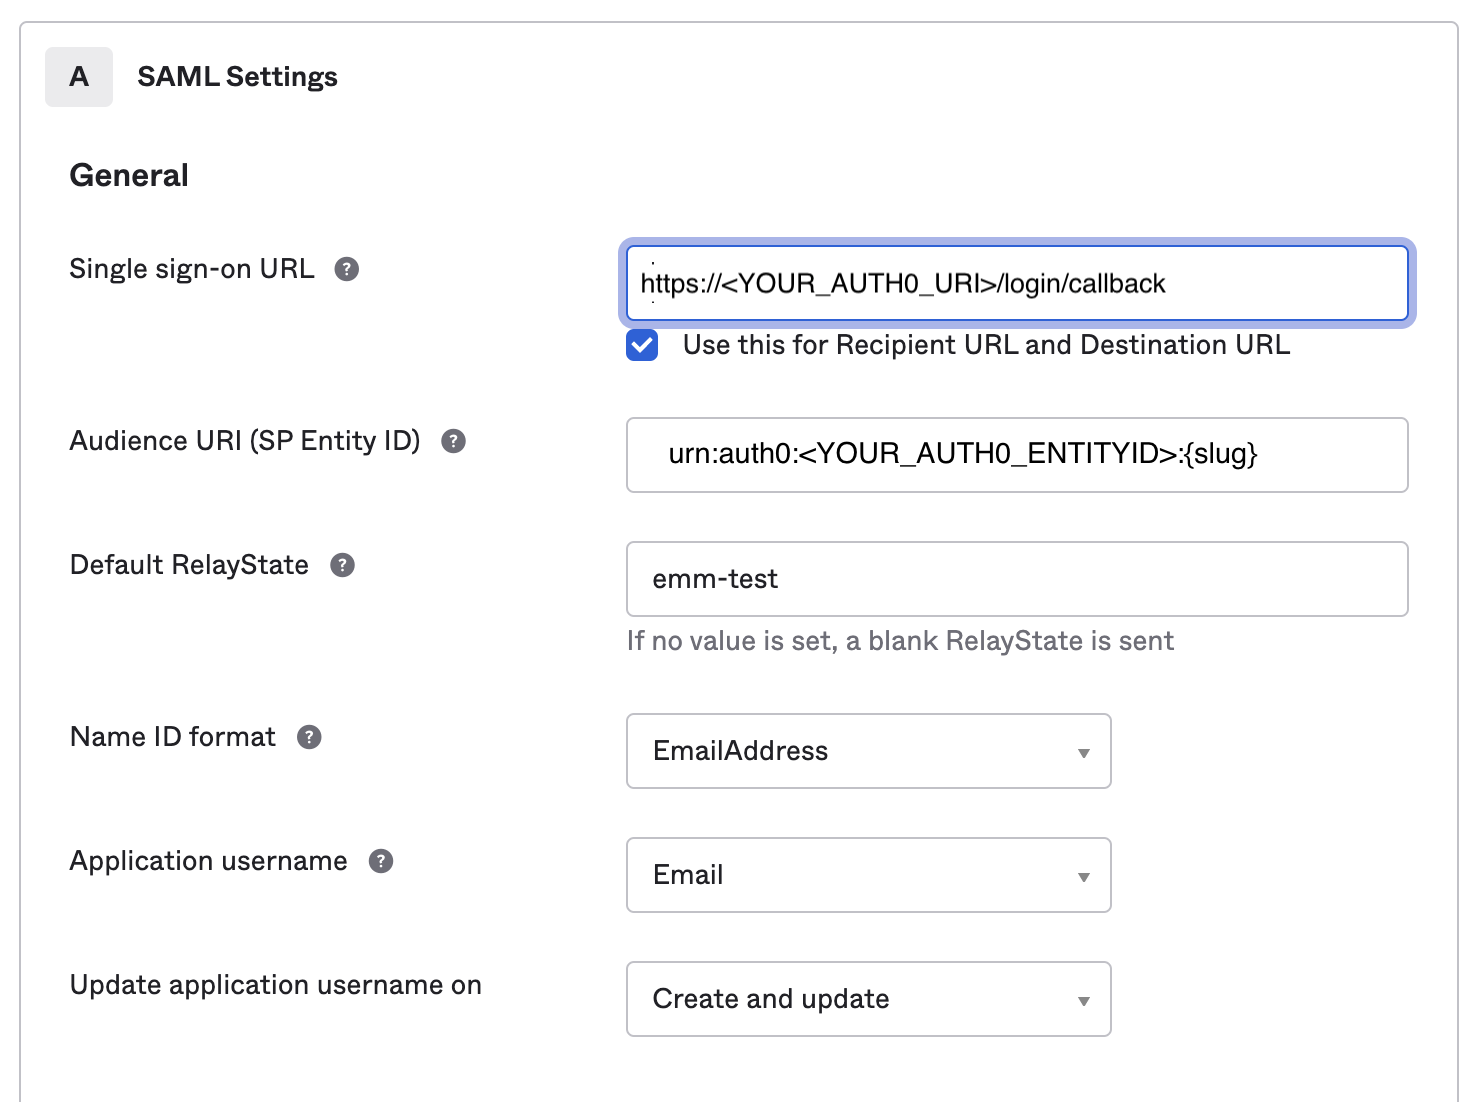
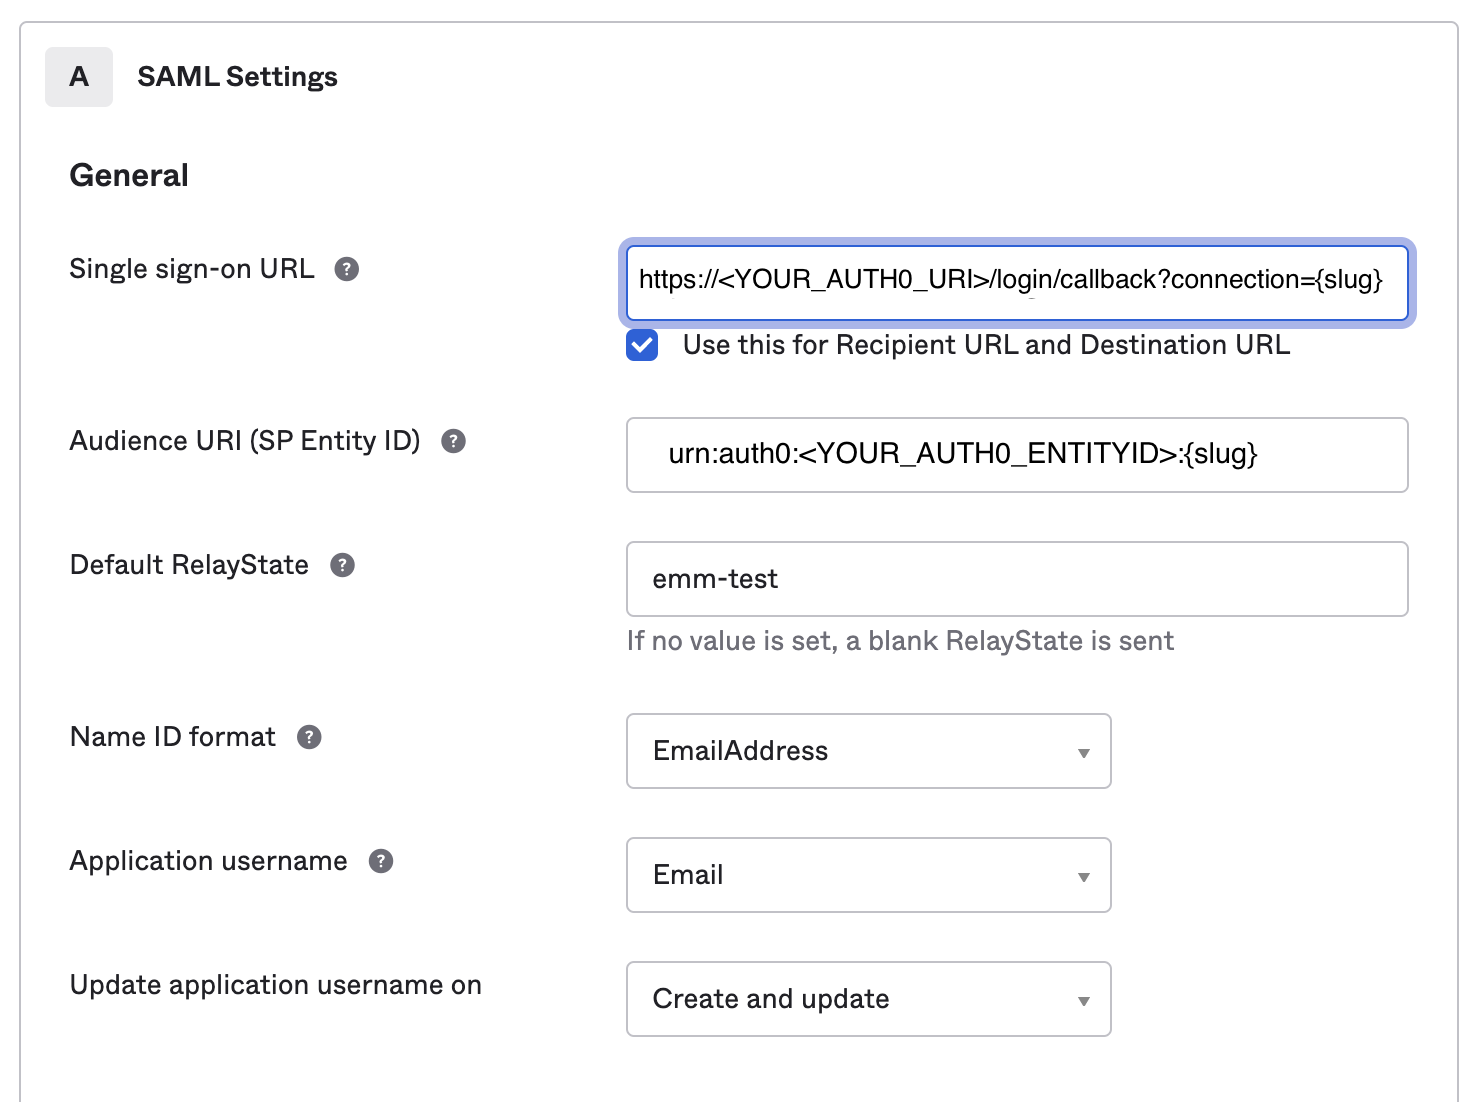
Adding entra ID sso saml migration

Changed region(s): [[0.4309, 0.2468, 0.9542, 0.2777]]

diff --git a/website/docs/docs/cloud/manage-access/auth0-migration.md b/website/docs/docs/cloud/manage-access/auth0-migration.md
@@ -30,11 +30,13 @@ After changing the slug, admins must share the new login URL with their dbt Clou
 
 :::
 
-## SAML 2.0 and Okta
+## SAML 2.0
 
 SAML 2.0 users must update a few fields in the SSO app configuration to match the new Auth0 URL and URI.  You can approach this by editing the existing SSO app settings or creating a new one to accommodate the Auth0 settings. One approach isn't inherently better, so you can choose whichever works best for your organization.
 
-The fields that will be updated are:
+### SAML 2.0 and Okta
+
+The Okta fields that will be updated are:
 - Single sign-on URL &mdash; `https://<YOUR_AUTH0_URI>/login/callback?connection={slug}`
 - Audience URI (SP Entity ID) &mdash; `urn:auth0:<YOUR_AUTH0_ENTITYID>:{slug}`
 
@@ -56,39 +58,37 @@ Here is an example of an updated SAML 2.0 setup in Okta.
 
 4. Save the settings and test the new configuration using the SSO login URL provided on the settings page. 
 
-## Google Workspace
+### SAML 2.0 and Entra ID
 
-Google Workspace admins updating their SSO APIs with the Auth0 URL won't have to do much if it is an existing setup. This can be done as a new project or by editing an existing SSO setup. No additional scopes are needed since this is migrating from an existing setup. All scopes were defined during the initial configuration. 
+The Entra ID fields that will be updated are:
+- Single sign-on URL &mdash; `https://<YOUR_AUTH0_URI>/login/callback?connection={slug}`
+- Audience URI (SP Entity ID) &mdash; `urn:auth0:<YOUR_AUTH0_ENTITYID>:{slug}`
 
-Below are steps to update. You must complete all of them to ensure uninterrupted access to dbt Cloud and you should coordinate with your identity provider admin when making these changes.
+The new values for these fields can be found in dbt Cloud by navigating to **Account settting** --> **Single sign-on**.
 
-1. Open the [Google Cloud console](https://console.cloud.google.com/) and select the project with your dbt Cloud single sign-on settings. From the project page **Quick Access**, select **APIs and Services**
+1. Replace `{slug}` with your organization’s login slug. It must be unique across all dbt Cloud instances and is usually something like your company name separated by dashes (for example, `dbt-labs`).
 
-<Lightbox src="/img/docs/dbt-cloud/access-control/google-cloud-sso.png" title="Google Cloud Console"/>
+2. Locate your dbt Cloud SAML2.0 app in the **Enterprise applications** section of Azure. Click **Single sign-on** on the left side menu.
 
-2. Click **Credentials** from the left side pane and click the appropriate name from **OAuth 2.0 Client IDs**
+3. Edit the **Basic SAML configuration** tile and enter the values from your account:
+    - Entra ID **Identifier (Entity ID)** = dbt Cloud **Audience URI (SP Entity ID)**
+    - Entra ID **Reply URL (Assertion Consumer Service URL)** = dbt Cloud **Single sign-on URL**
 
-<Lightbox src="/img/docs/dbt-cloud/access-control/sso-project.png" title="Select the OAuth 2.0 Client ID"/>
+    <Lightbox src="/img/docs/dbt-cloud/access-control/edit-entra-saml.png" width="90%" title="Editing the SAML configuration window in Entra ID"/>
 
-3. In the **Client ID for Web application** window, find the **Authorized Redirect URIs** field and click **Add URI** and enter `https://<YOUR_AUTH0_URI>/login/callback`.
+4. Save the fields and the completed configuration will look something like this: 
 
-Click **Save** once you are done. 
+    <Lightbox src="/img/docs/dbt-cloud/access-control/entra-id-saml.png" width="90%" title="Completed configuration of the SAML fields in Entra ID"/>
 
-<Lightbox src="/img/docs/dbt-cloud/access-control/google-uri.png" title="Add Redirect URI"/>
+3. Toggle the `Enable new SSO authentication` option to ensure the traffic is routed correctly. _The new SSO migration action is final and cannot be undone_
 
-4. _You will need a person with Google Workspace admin privileges to complete these steps in dbt Cloud_. In dbt Cloud, navigate to the **Account Settings**, click on **Single Sign-on**, and then click **Edit** on the right side of the SSO pane. Toggle the **Enable New SSO Authentication** option and select **Save**. This will trigger an authorization window from Google that will require admin credentials. _The migration action is final and cannot be undone_. Once the authentication has gone through, test the new configuration using the SSO login URL provided on the settings page.
+<Lightbox src="/img/docs/dbt-cloud/access-control/saml-enable-entra.png" title="Enable new SSO for SAML/Okta"/>
 
-:::warning Domain authorization
-
-You must complete the domain authorization before you toggle `Enable New SSO Authentication`, or the migration will not complete successfully.
-
-:::
-
-<Lightbox src="/img/docs/dbt-cloud/access-control/google-enable.png" title="Enable new SSO for Google Workspace"/>
+4. Save the settings and test the new configuration using the SSO login URL provided on the settings page.
 
 ## Microsoft Entra ID
 
-Microsoft Entra ID admins will need to make a slight adjustment to the existing authentication app in the Azure portal. This migration does not require that the entire app be deleted or recreated; you can edit the existing app. Start by opening the Azure portal and navigating to the Microsoft Entra ID overview.
+Microsoft Entra ID admins using OpenID Connect (ODIC) will need to make a slight adjustment to the existing authentication app in the Azure portal. This migration does not require that the entire app be deleted or recreated; you can edit the existing app. Start by opening the Azure portal and navigating to the Microsoft Entra ID overview.
 
 Below are steps to update. You must complete all of them to ensure uninterrupted access to dbt Cloud and you should coordinate with your identity provider admin when making these changes.
 
@@ -113,3 +113,32 @@ You must complete the domain authorization before you toggle `Enable New SSO Aut
 :::
 
 <Lightbox src="/img/docs/dbt-cloud/access-control/azure-enable.png" title="Enable new SSO"/>
+
+## Google Workspace
+
+Google Workspace admins updating their SSO APIs with the Auth0 URL won't have to do much if it is an existing setup. This can be done as a new project or by editing an existing SSO setup. No additional scopes are needed since this is migrating from an existing setup. All scopes were defined during the initial configuration. 
+
+Below are steps to update. You must complete all of them to ensure uninterrupted access to dbt Cloud and you should coordinate with your identity provider admin when making these changes.
+
+1. Open the [Google Cloud console](https://console.cloud.google.com/) and select the project with your dbt Cloud single sign-on settings. From the project page **Quick Access**, select **APIs and Services**
+
+<Lightbox src="/img/docs/dbt-cloud/access-control/google-cloud-sso.png" title="Google Cloud Console"/>
+
+2. Click **Credentials** from the left side pane and click the appropriate name from **OAuth 2.0 Client IDs**
+
+<Lightbox src="/img/docs/dbt-cloud/access-control/sso-project.png" title="Select the OAuth 2.0 Client ID"/>
+
+3. In the **Client ID for Web application** window, find the **Authorized Redirect URIs** field and click **Add URI** and enter `https://<YOUR_AUTH0_URI>/login/callback`.
+
+Click **Save** once you are done. 
+
+4. _You will need a person with Google Workspace admin privileges to complete these steps in dbt Cloud_. In dbt Cloud, navigate to the **Account Settings**, click on **Single Sign-on**, and then click **Edit** on the right side of the SSO pane. Toggle the **Enable New SSO Authentication** option and select **Save**. This will trigger an authorization window from Google that will require admin credentials. _The migration action is final and cannot be undone_. Once the authentication has gone through, test the new configuration using the SSO login URL provided on the settings page.
+
+:::warning Domain authorization
+
+You must complete the domain authorization before you toggle `Enable New SSO Authentication`, or the migration will not complete successfully.
+
+:::
+
+<Lightbox src="/img/docs/dbt-cloud/access-control/google-enable.png" title="Enable new SSO for Google Workspace"/>
+

diff --git a/website/docs/docs/cloud/manage-access/set-up-sso-saml-2.0.md b/website/docs/docs/cloud/manage-access/set-up-sso-saml-2.0.md
@@ -355,7 +355,13 @@ From the Set up Single Sign-On with SAML page:
 
 ### Finish setup
 
-9. After creating the Azure application, follow the instructions in the [dbt Cloud Setup](#dbt-cloud-setup) section to complete the integration.
+9. After creating the Azure application, follow the instructions in the [dbt Cloud Setup](#dbt-cloud-setup) section to complete the integration. The names for fields in dbt Cloud vary from those in the Entra ID app. They're mapped as follows:
+
+| dbt Cloud field | Corresponding Entra ID field |
+| ----- | ----- |
+| Identity Provider SSO URL | Login URL |
+| Identity Provider Issuer | Microsoft Entra Identifier |
+
 
 ## OneLogin integration
 
